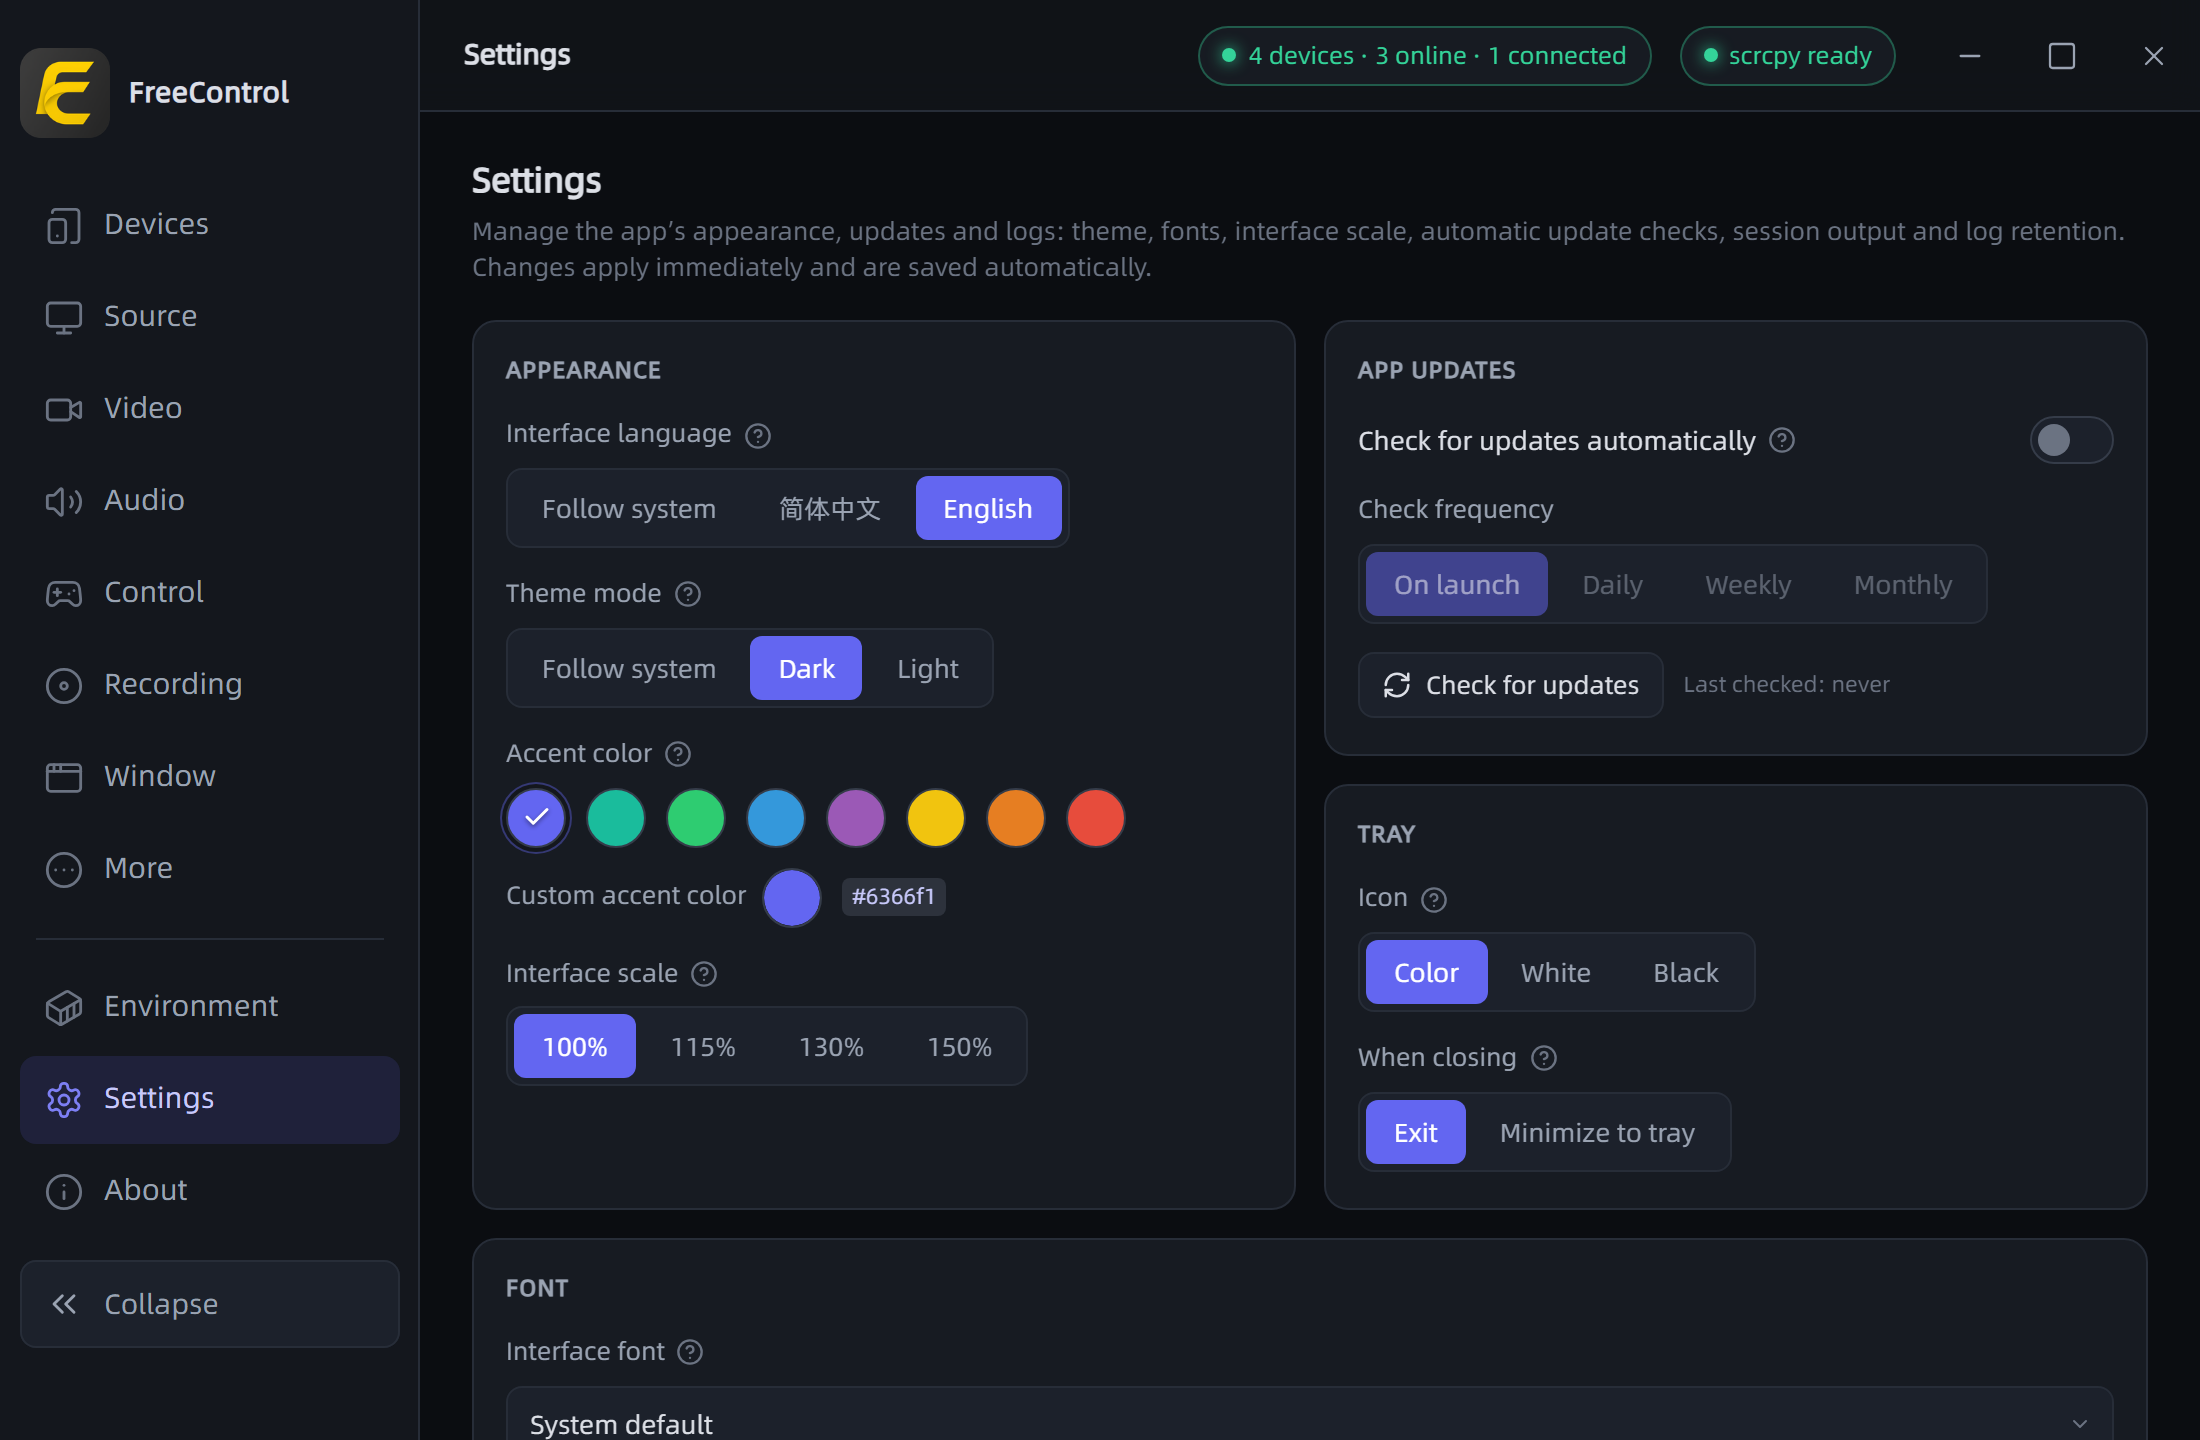
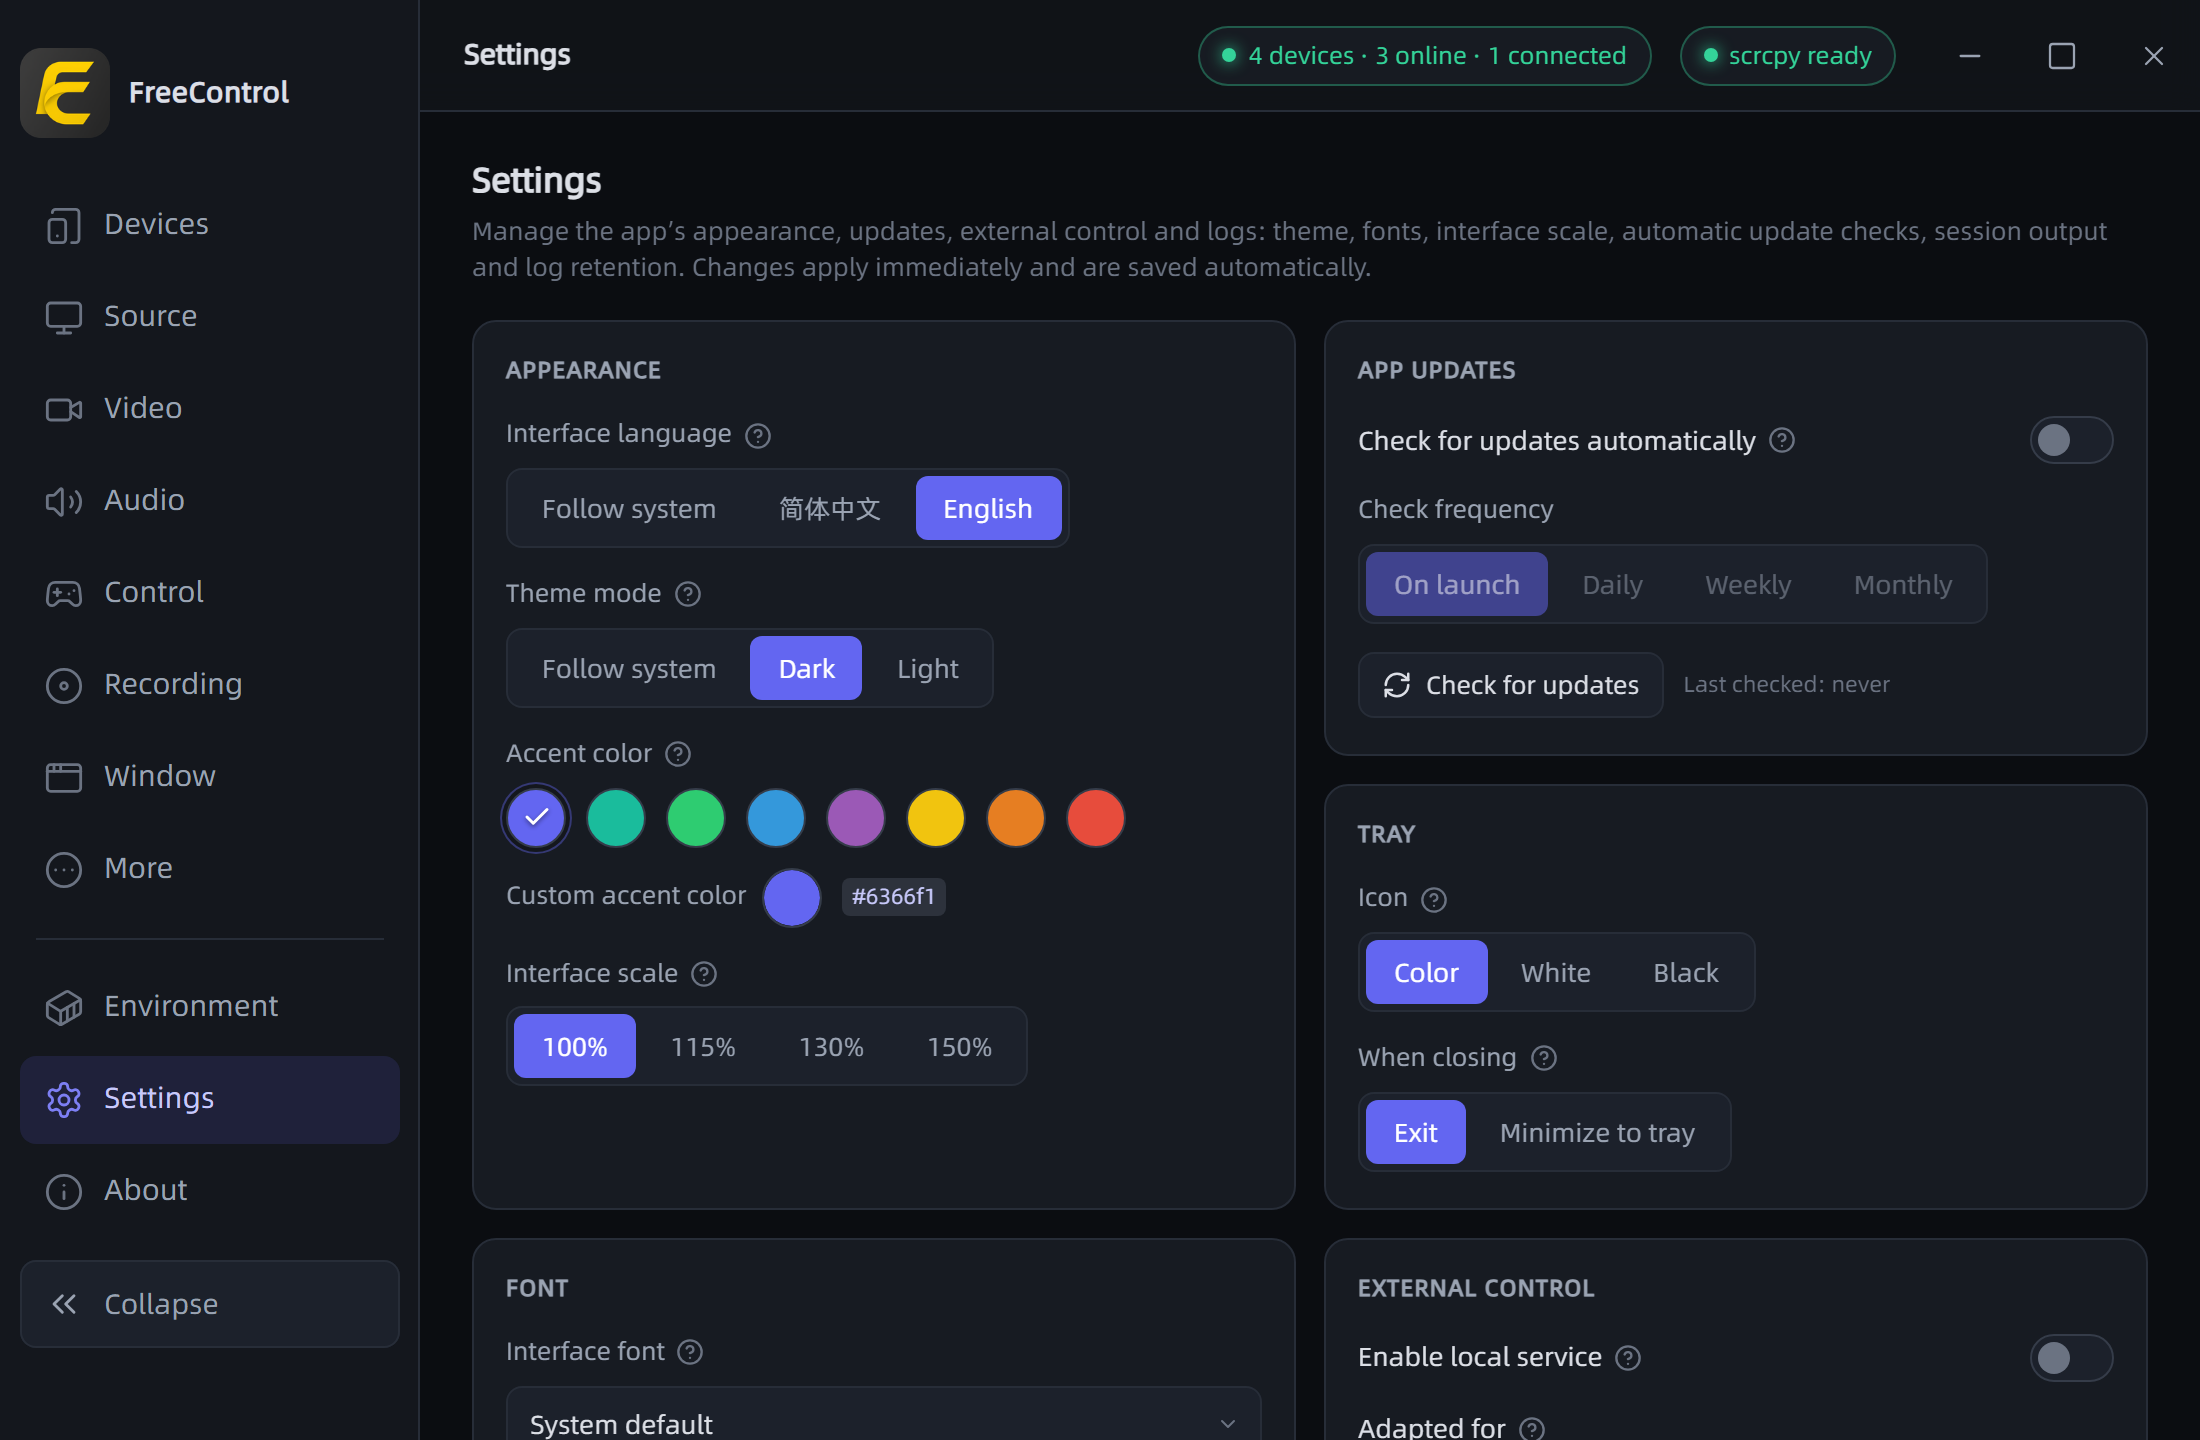
发行：版本升到 2.7.0，补更新日志并重截设置页截图

diff --git a/ui-design/launcher-prototype.html b/ui-design/launcher-prototype.html
@@ -3399,9 +3399,9 @@
      正式实现中：该值由 Tauri 的 getVersion()（取 tauri.conf.json 的构建期版本）下发，
      前端一律通过该 API 读取，页面里不得写版本字面量（见 about-page design D5）。
      ============================================================ */
-  const APP_VERSION = '2.6.0';
+  const APP_VERSION = '2.7.0';
   // 原型演示用的模拟最新版；产品侧由 GitHub 最新正式发行下发，不写死在界面里。
-  const UPDATE_LATEST_VERSION = '2.6.1';
+  const UPDATE_LATEST_VERSION = '2.7.1';
 
   // 每台设备的参数覆盖（仅覆盖的字段）
   const overrides = {};

diff --git a/Update.en.md b/Update.en.md
@@ -2,6 +2,13 @@
 
 <a href="Update.md">中文</a> | English
 
+## v2.7.0
+
+### New
+
+- Settings now has an External Control card: turn on Enable local service and adapted external apps (such as the Fuyu plugin) can discover and connect to FreeControl on this computer, read device status, and connect or disconnect devices using each device's saved parameters. The service listens only on this computer and is off by default, and the switch takes effect immediately with no pairing information to copy.
+- While the service is running, the card shows the local address and an API docs link to the read-only device interface reference in your browser; the address stays the same across restarts whenever possible.
+
 ## v2.6.0
 
 ### New

diff --git a/Update.md b/Update.md
@@ -2,6 +2,13 @@
 
 中文 | <a href="Update.en.md">English</a>
 
+## v2.7.0
+
+### 新增
+
+- 设置页新增「外部控制」卡片：开启「启用本地服务」后，已适配的外部应用（如浮屿插件）可以自动发现并连接本机 FreeControl，读取设备状态，并按设备已保存的参数连接或断开设备。服务只监听本机、出厂关闭，保存后即时启停，无需复制配对信息。
+- 本地服务运行时，卡片会显示当前本机地址与「接口文档」入口，可在浏览器中查看只读的设备接口说明；重新开启或重启后地址尽量保持不变。
+
 ## v2.6.0
 
 ### 新增

diff --git a/README.en.md b/README.en.md
@@ -51,9 +51,9 @@
 
 <img src="assets/screenshots/dark/en/environment.png" alt="Runtime page" />
 
-**Settings** — appearance, fonts, interface language, updates, tray and log settings:
+**Settings** — appearance, fonts, interface language, external control, updates, tray and log settings:
 
-<img src="assets/screenshots/dark/en/settings.png" alt="Settings page: appearance, fonts, interface language, updates, tray and log settings" />
+<img src="assets/screenshots/dark/en/settings.png" alt="Settings page: appearance, fonts, interface language, external control, updates, tray and log settings" />
 
 ## Quick Start
 

diff --git a/README.md b/README.md
@@ -50,9 +50,9 @@
 
 <img src="assets/screenshots/dark/environment.png" alt="运行环境页" />
 
-**设置** —— 外观、字体、界面语言、自动更新、托盘与日志设置：
+**设置** —— 外观、字体、界面语言、外部控制、自动更新、托盘与日志设置：
 
-<img src="assets/screenshots/dark/settings.png" alt="设置页：外观、字体、界面语言、自动更新、托盘与日志设置" />
+<img src="assets/screenshots/dark/settings.png" alt="设置页：外观、字体、界面语言、外部控制、自动更新、托盘与日志设置" />
 
 ## 快速开始
 
